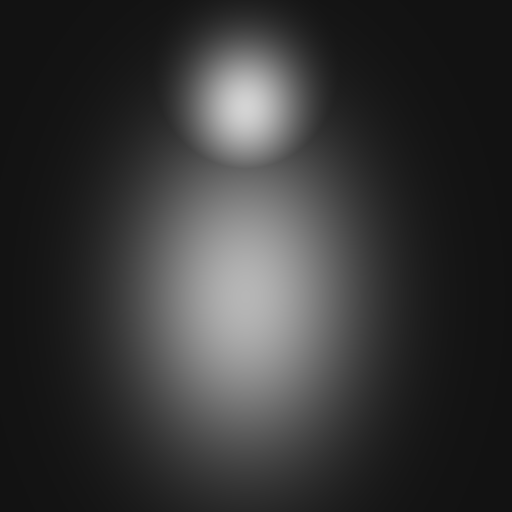
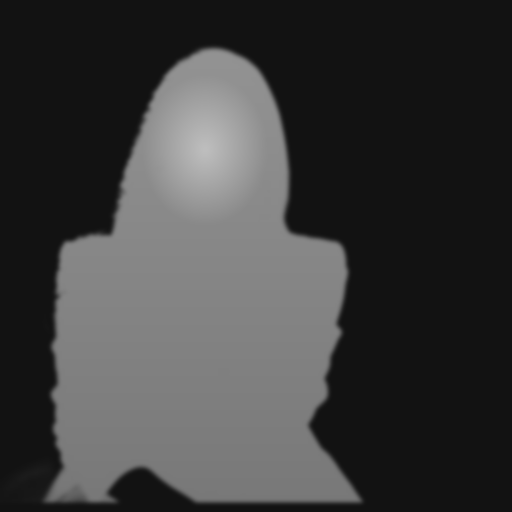
Replace hero portrait with user uploaded editorial photo (mein image.jpeg)

diff --git a/js/gravity-app.js b/js/gravity-app.js
@@ -140,7 +140,7 @@
     if (img.decode) { img.decode().then(zeigen, zeigen); } else { zeigen(); }
   };
   img.onerror = zeigen;
-  img.src = 'images/gravity/portrait.jpg?v=lace1';
+  img.src = 'images/gravity/portrait.jpg?v=p2';
   if (img.complete && img.naturalWidth) { img.onload(); }
 
   setTimeout(zeigen, 2000);
@@ -157,8 +157,8 @@
 
   var FG_DARK = '#FFFFFF';
   var FG_LIGHT = '#2B2B2B';
-  var PHOTO_DARK = 'images/gravity/portrait.jpg?v=lace1';
-  var PHOTO_LIGHT = 'images/gravity/portrait.jpg?v=lace1';
+  var PHOTO_DARK = 'images/gravity/portrait.jpg?v=p2';
+  var PHOTO_LIGHT = 'images/gravity/portrait.jpg?v=p2';
 
   var OVERLAY_DARK = ['rgba(16,16,16,0.72)', 'rgba(16,16,16,0.38)', 'rgba(16,16,16,0.12)'];
   var OVERLAY_LIGHT = ['rgba(16,16,16,0.16)', 'rgba(16,16,16,0.08)', 'rgba(16,16,16,0.02)'];
@@ -3783,9 +3783,9 @@
     bild.src = quelle;
   }
 
-  laden('images/gravity/tiefenkarte.png', function (karte) {
+  laden('images/gravity/tiefenkarte.png?v=tk2', function (karte) {
     if (!karte) { status('tiefenkarte.png fehlt'); return; }
-    laden('images/gravity/portrait.jpg?v=lace1', function (foto) {
+    laden('images/gravity/portrait.jpg?v=p2', function (foto) {
       if (!foto) { status('portrait.jpg fehlt'); return; }
 
       try {

diff --git a/index.html b/index.html
@@ -198,8 +198,8 @@
   <link rel="stylesheet" href="css/extra.css?v=149">
   <link rel="stylesheet" href="css/loader.css?v=9">
   <link rel="stylesheet" href="css/ai-assistant.css?v=120">
-  <link rel="preload" as="image" href="images/gravity/portrait.jpg?v=lace1" fetchpriority="high">
-  <link rel="stylesheet" href="css/gravity-home.css?v=27">
+  <link rel="preload" as="image" href="images/gravity/portrait.jpg?v=p2" fetchpriority="high">
+  <link rel="stylesheet" href="css/gravity-home.css?v=28">
   <link rel="stylesheet" href="css/editor.css?v=7">
 </head>
 
@@ -1844,7 +1844,7 @@ a,
   <script src="js/vendor/lenis.min.js"></script>
   <script src="js/vendor/swiper-bundle.min.js"></script>
   <script src="js/vendor/ztstestimonials.js"></script>
-  <script src="js/gravity-app.js?v=4"></script>
+  <script src="js/gravity-app.js?v=5"></script>
   <script src="js/main.js?v=80"></script>
   <script src="js/fluidbg.js?v=1" defer></script>
   <script src="js/ai-assistant.js?v=118"></script>

diff --git a/css/gravity-home.css b/css/gravity-home.css
@@ -85,7 +85,7 @@
     position:relative; z-index:3;
     width:100%; height:150vh;
     background:var(--bg);
-    --photo:url('../images/gravity/portrait.jpg?v=lace1');
+    --photo:url('../images/gravity/portrait.jpg?v=p2');
   }
 
   .om-bg::after{
